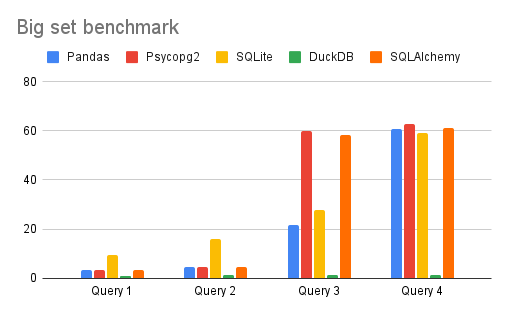
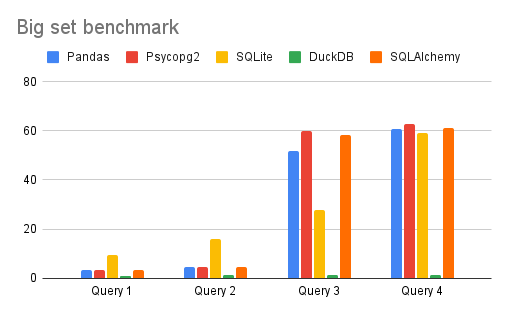
fix info

Changed region(s): [[0.5621, 0.4586, 0.5917, 0.7166]]

diff --git a/README.md b/README.md
@@ -103,7 +103,7 @@ QUERIES = [
 ||Pandas|Psycopg2|SQLite|DuckDB|SQLAlchemy|
 |Query 1|3,518|3,522|9,539|1,024|3,417|
 |Query 2|4,53|4,578|16,172|1,149|4,434|
-|Query 3|21,826|59,805|27,87|1,455|58,324|
+|Query 3|58,826|59,805|27,87|1,455|58,324|
 |Query 4|60,719|62,599|59,272|1,544|61,265|
 
 ![Big set](https://github.com/VladZF/Lab3DB/blob/master/pictures/BigSet.png)
